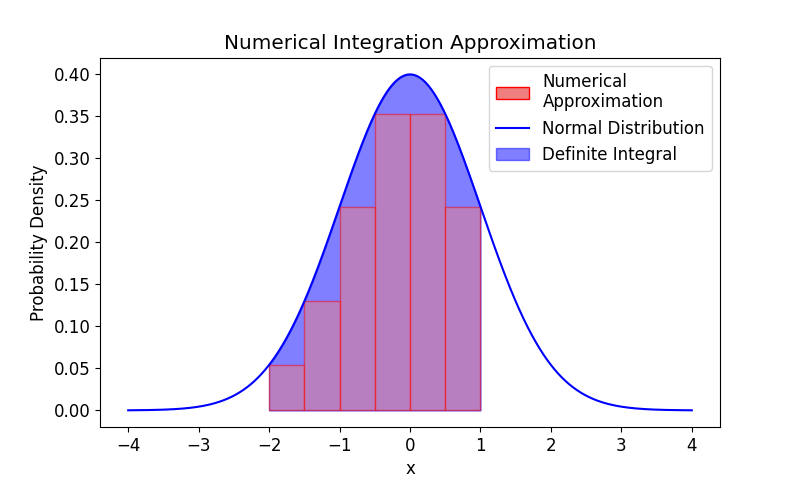
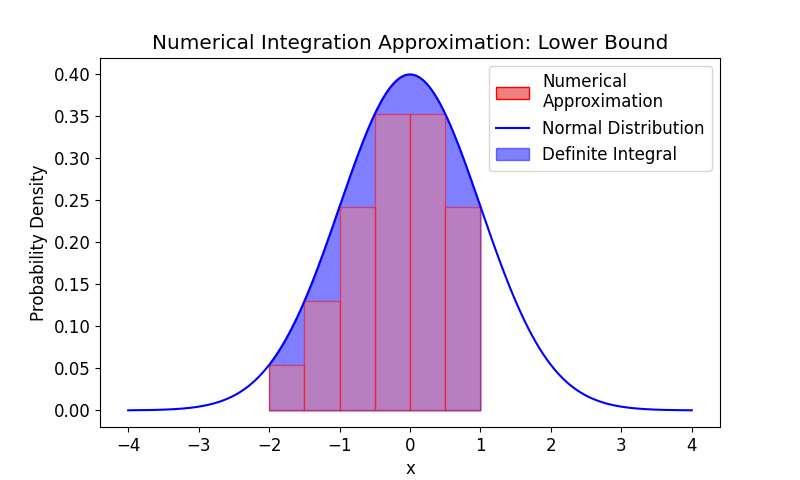
+

Changed region(s): [[0.1875, 0.0625, 0.8438, 0.125]]

diff --git a/dissertation.tex b/dissertation.tex
@@ -93,7 +93,6 @@
 
     In this case, a numerical method is typically used instead such as the Rectangle Method, which uses the Riemann integral definition.
     This states that an integral can be approximated by summing the area of many adjacent rectangles between the function and the axis~\cite{NumericalAnalysis2023}, as shown in Figure~\ref{fig:ndi-num_} and Figure~\ref{fig:ndi-num2_}.
-    As you can see
 
     \begin{figure}[H]
         \centering
@@ -108,6 +107,9 @@
         \caption{\ndiFigCaption{upper}}
         \label{fig:ndi-num2_}
     \end{figure}
+
+    As you can see, there are two ways to draw the rectangles.
+    In
 
     The second reason is that in practice, the real world continuous data must be sampled at a number of individual points in time.
     This discretises the data, which means that analytical mathematical methods that rely on the data being continuous cannot be implemented.

diff --git a/figures/ndi-num/ndi-num_.py b/figures/ndi-num/ndi-num_.py
@@ -41,7 +41,7 @@ rect_patch = mpatches.Patch(facecolor='lightcoral', edgecolor='red', label='Nume
 # Add labels, title, and legend
 plt.xlabel('x')
 plt.ylabel('Probability Density')
-plt.title('Numerical Integration Approximation')
+plt.title('Numerical Integration Approximation: Lower Bound')
 plt.legend(handles=[rect_patch, plt.Line2D([0], [0], color='blue', label='Normal Distribution'),
                     plt.Rectangle((0, 0), 1, 1, color='blue', label='Definite Integral', alpha=0.5)],
            loc='upper right')

diff --git a/figures/ndi-num2/ndi-num2_.py b/figures/ndi-num2/ndi-num2_.py
@@ -41,7 +41,7 @@ rect_patch = mpatches.Patch(facecolor='lightcoral', edgecolor='red', label='Nume
 # Add labels, title, and legend
 plt.xlabel('x')
 plt.ylabel('Probability Density')
-plt.title('Numerical Integration Approximation')
+plt.title('Numerical Integration Approximation: Upper Bound')
 plt.legend(handles=[rect_patch, plt.Line2D([0], [0], color='blue', label='Normal Distribution'),
                     plt.Rectangle((0, 0), 1, 1, color='blue', label='Definite Integral', alpha=0.5)],
            loc='upper right')
